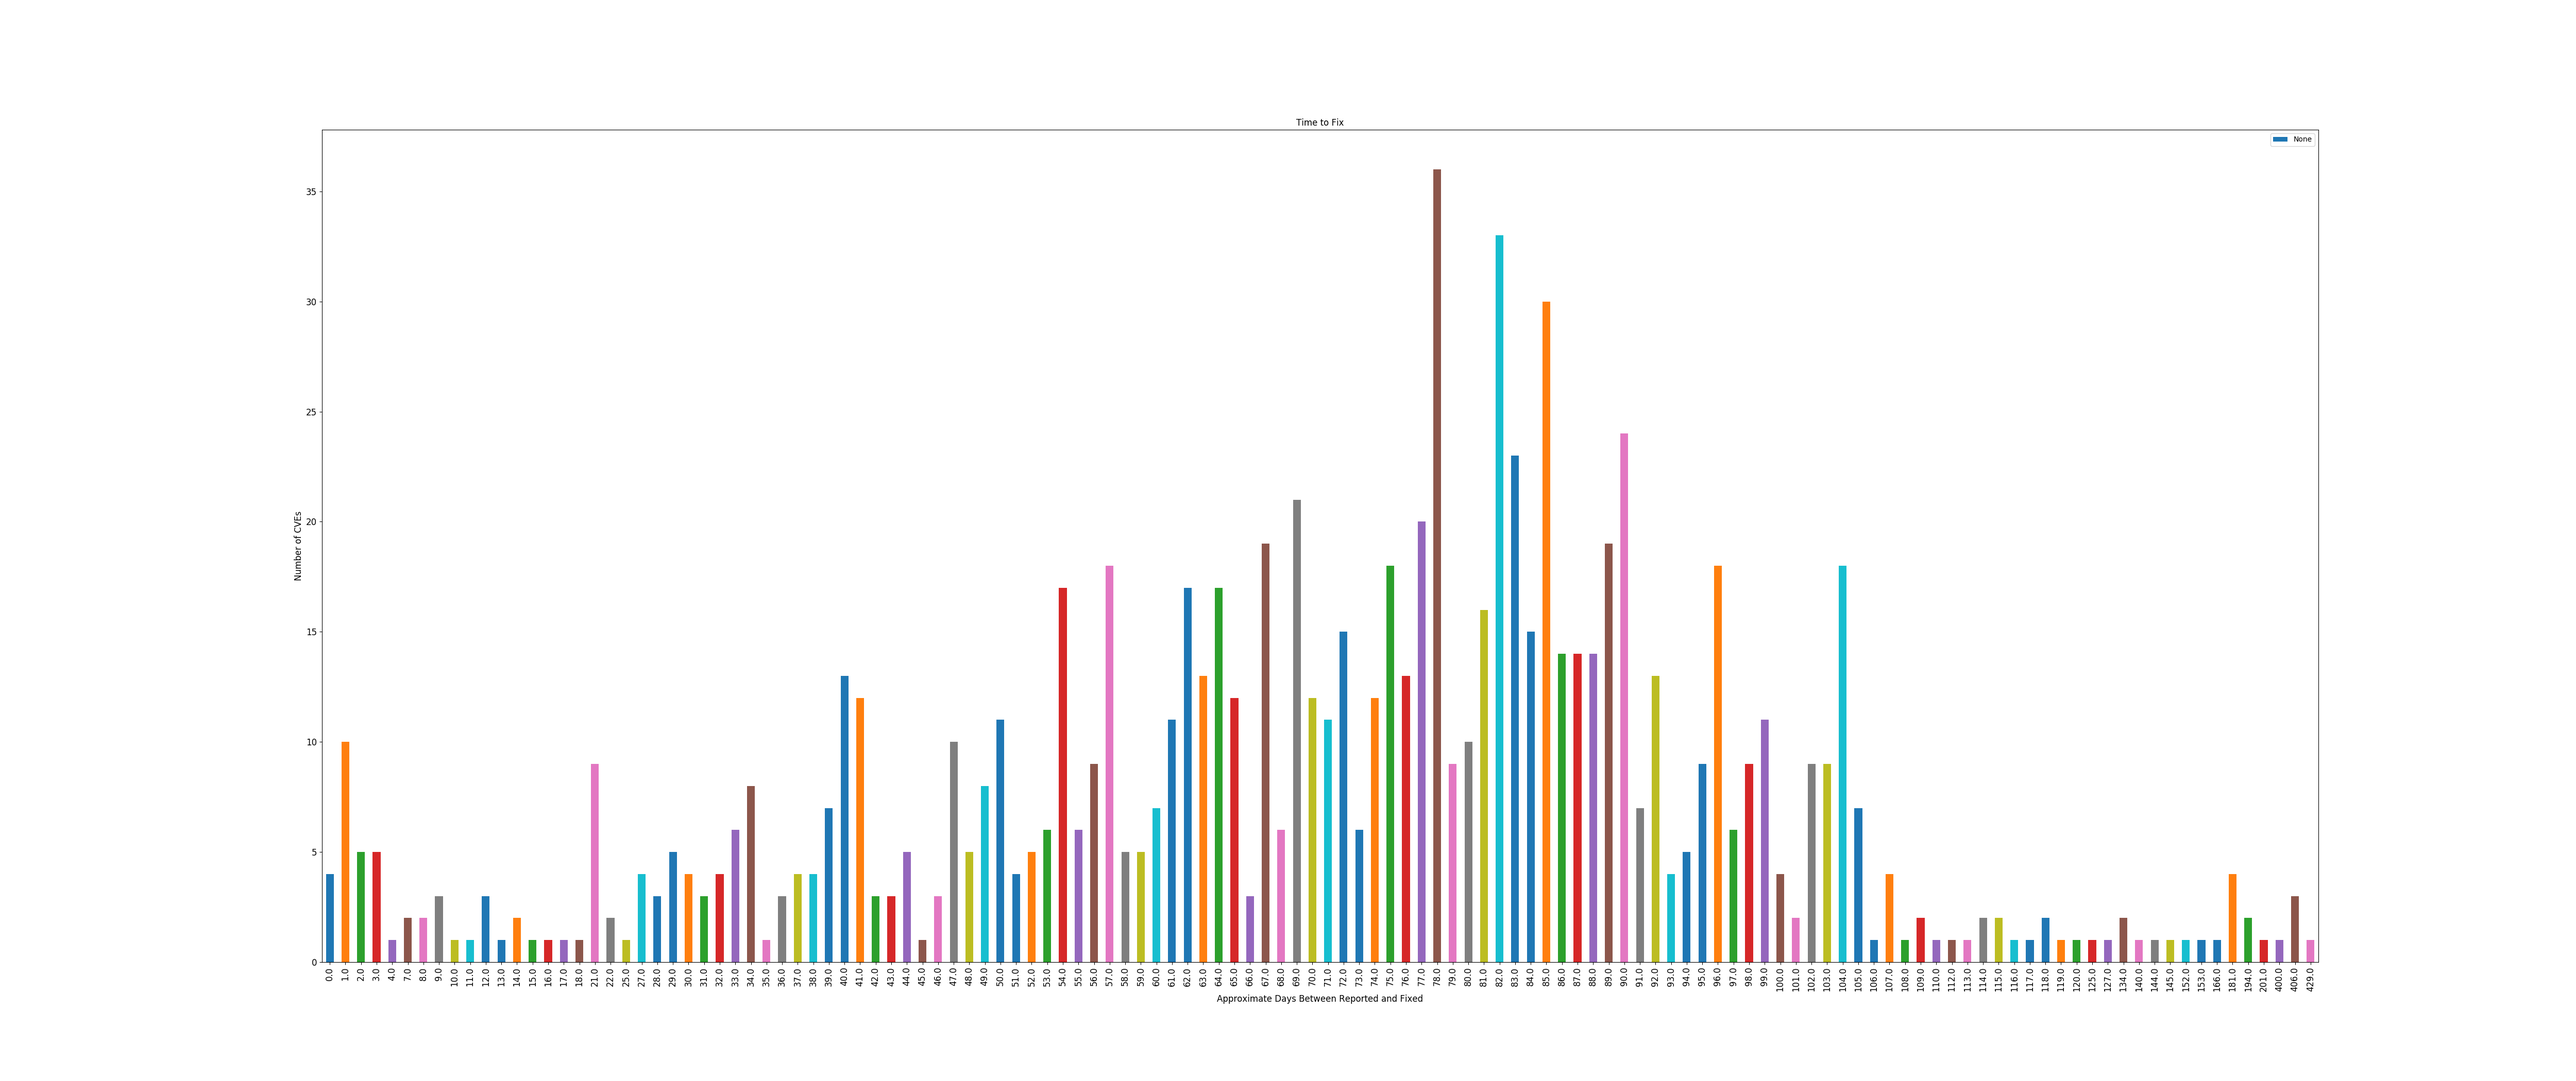
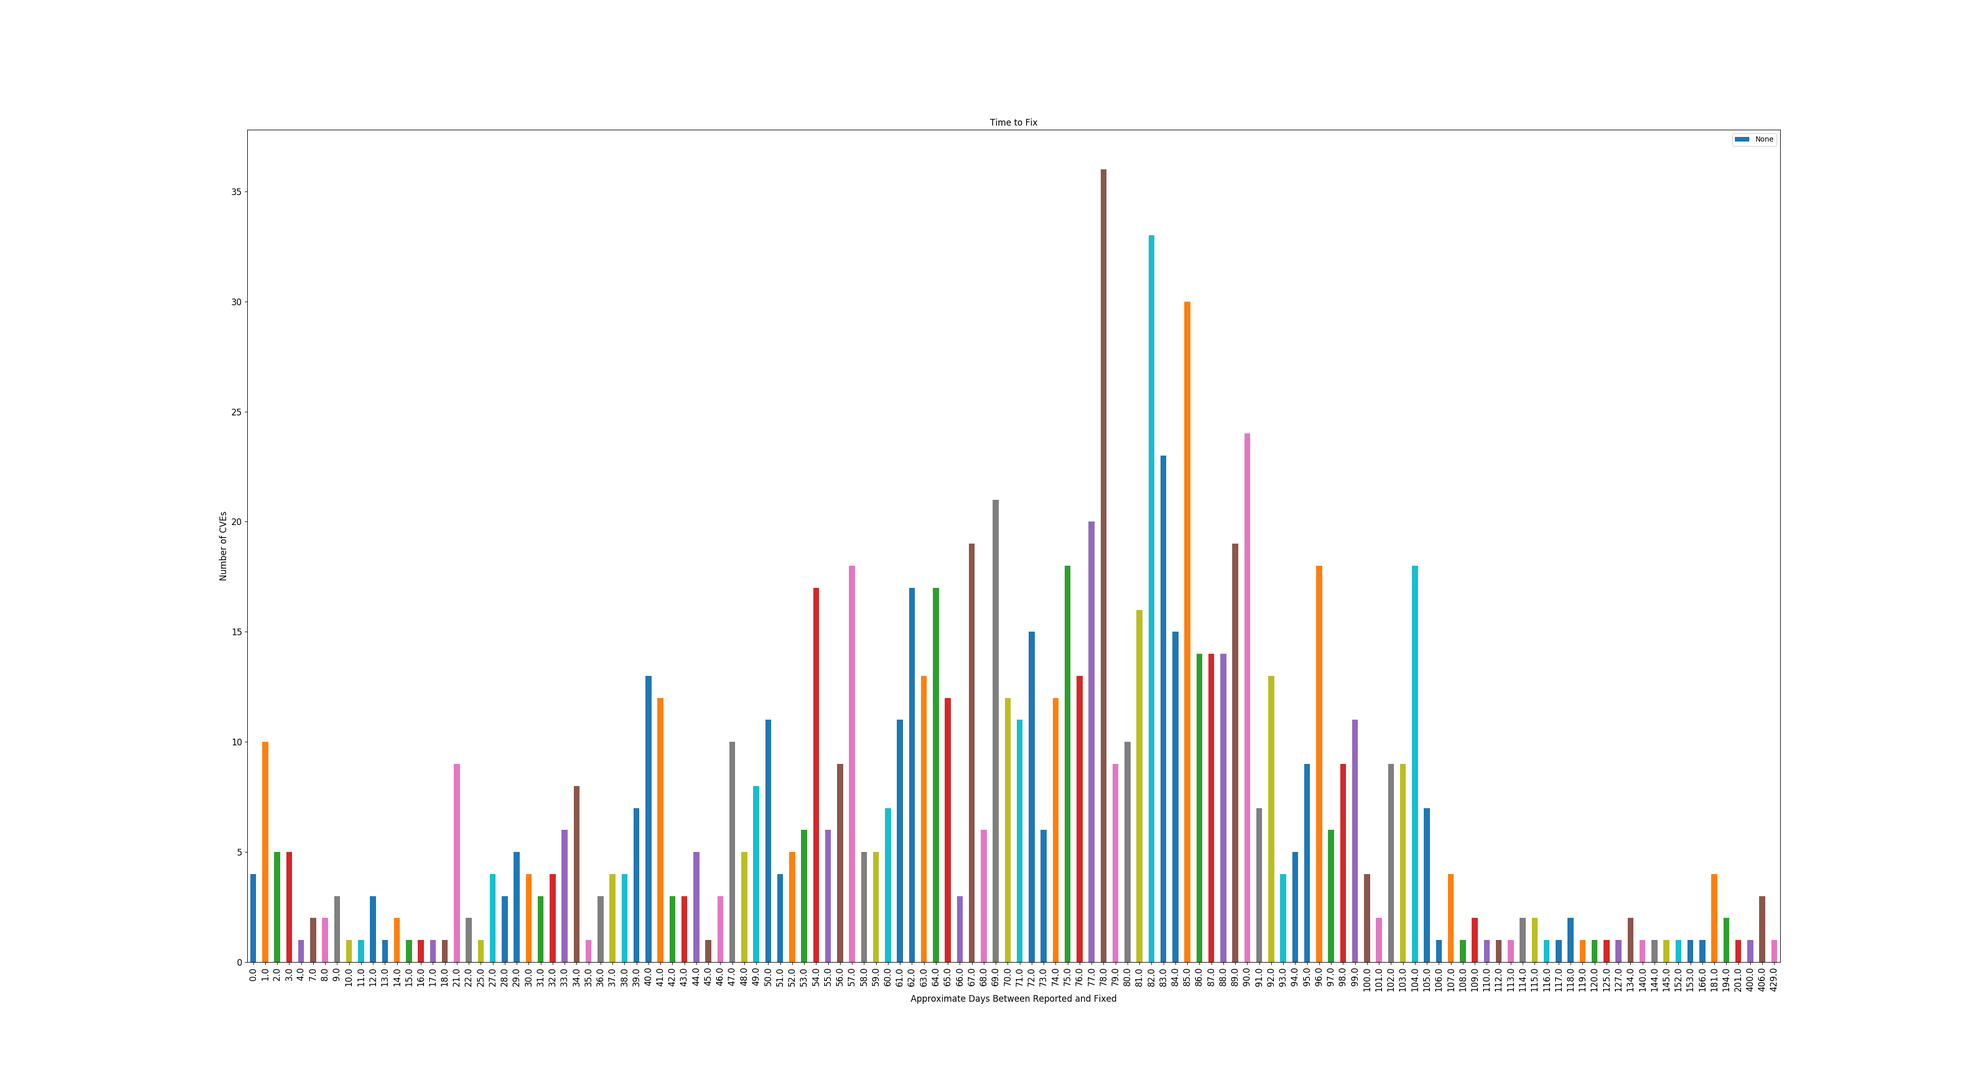
updated pics

Changed region(s): [[0.375, 0.8976, 0.9062, 0.9286], [0.1875, 0.8976, 0.3125, 0.9286]]

diff --git a/cve.py b/cve.py
@@ -101,7 +101,7 @@ df_times = df[df['time_to_fix'].notnull()]
 print ( df_times['time_to_fix'].describe() )
 
 # preliminary charting
-chart = df_times.groupby(['time_to_fix']).size().plot(kind='bar', title ="Time to Fix", figsize=(500, 500), legend=True, fontsize=12)
+chart = df_times.groupby(['time_to_fix']).size().plot(kind='bar', title ="Time to Fix", figsize=(200, 200), legend=True, fontsize=12)
 chart.set_xlabel("Approximate Days Between Reported and Fixed", fontsize=12)
 chart.set_ylabel("Number of CVEs", fontsize=12)
 
